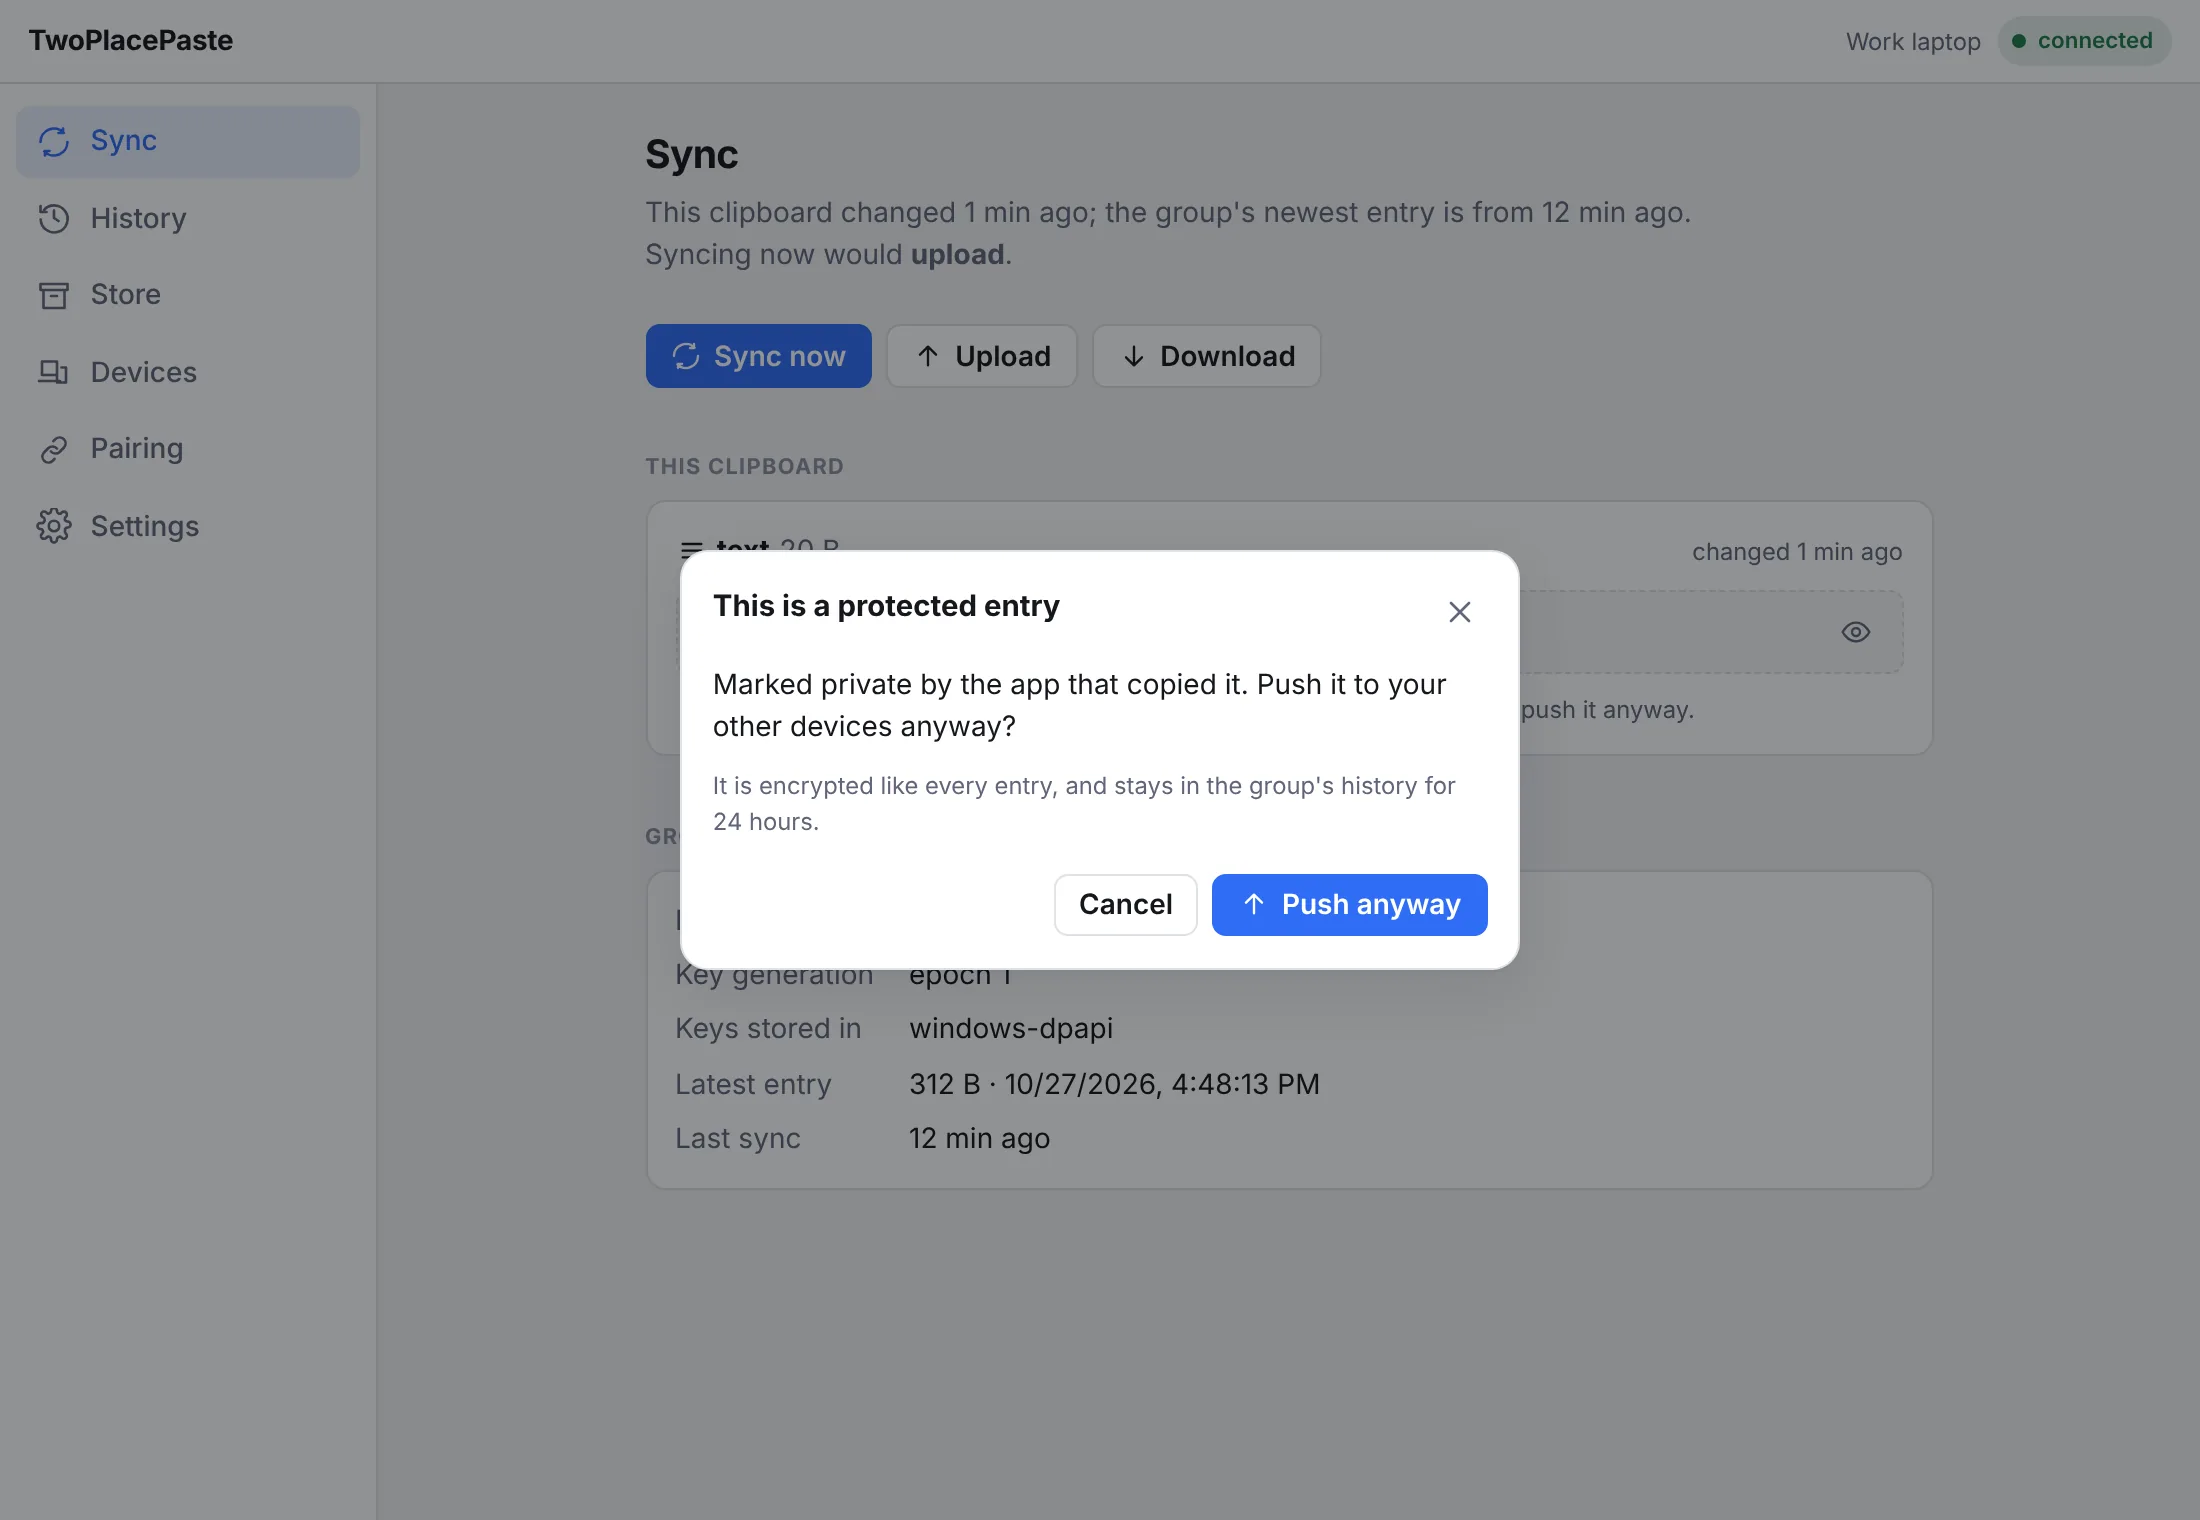
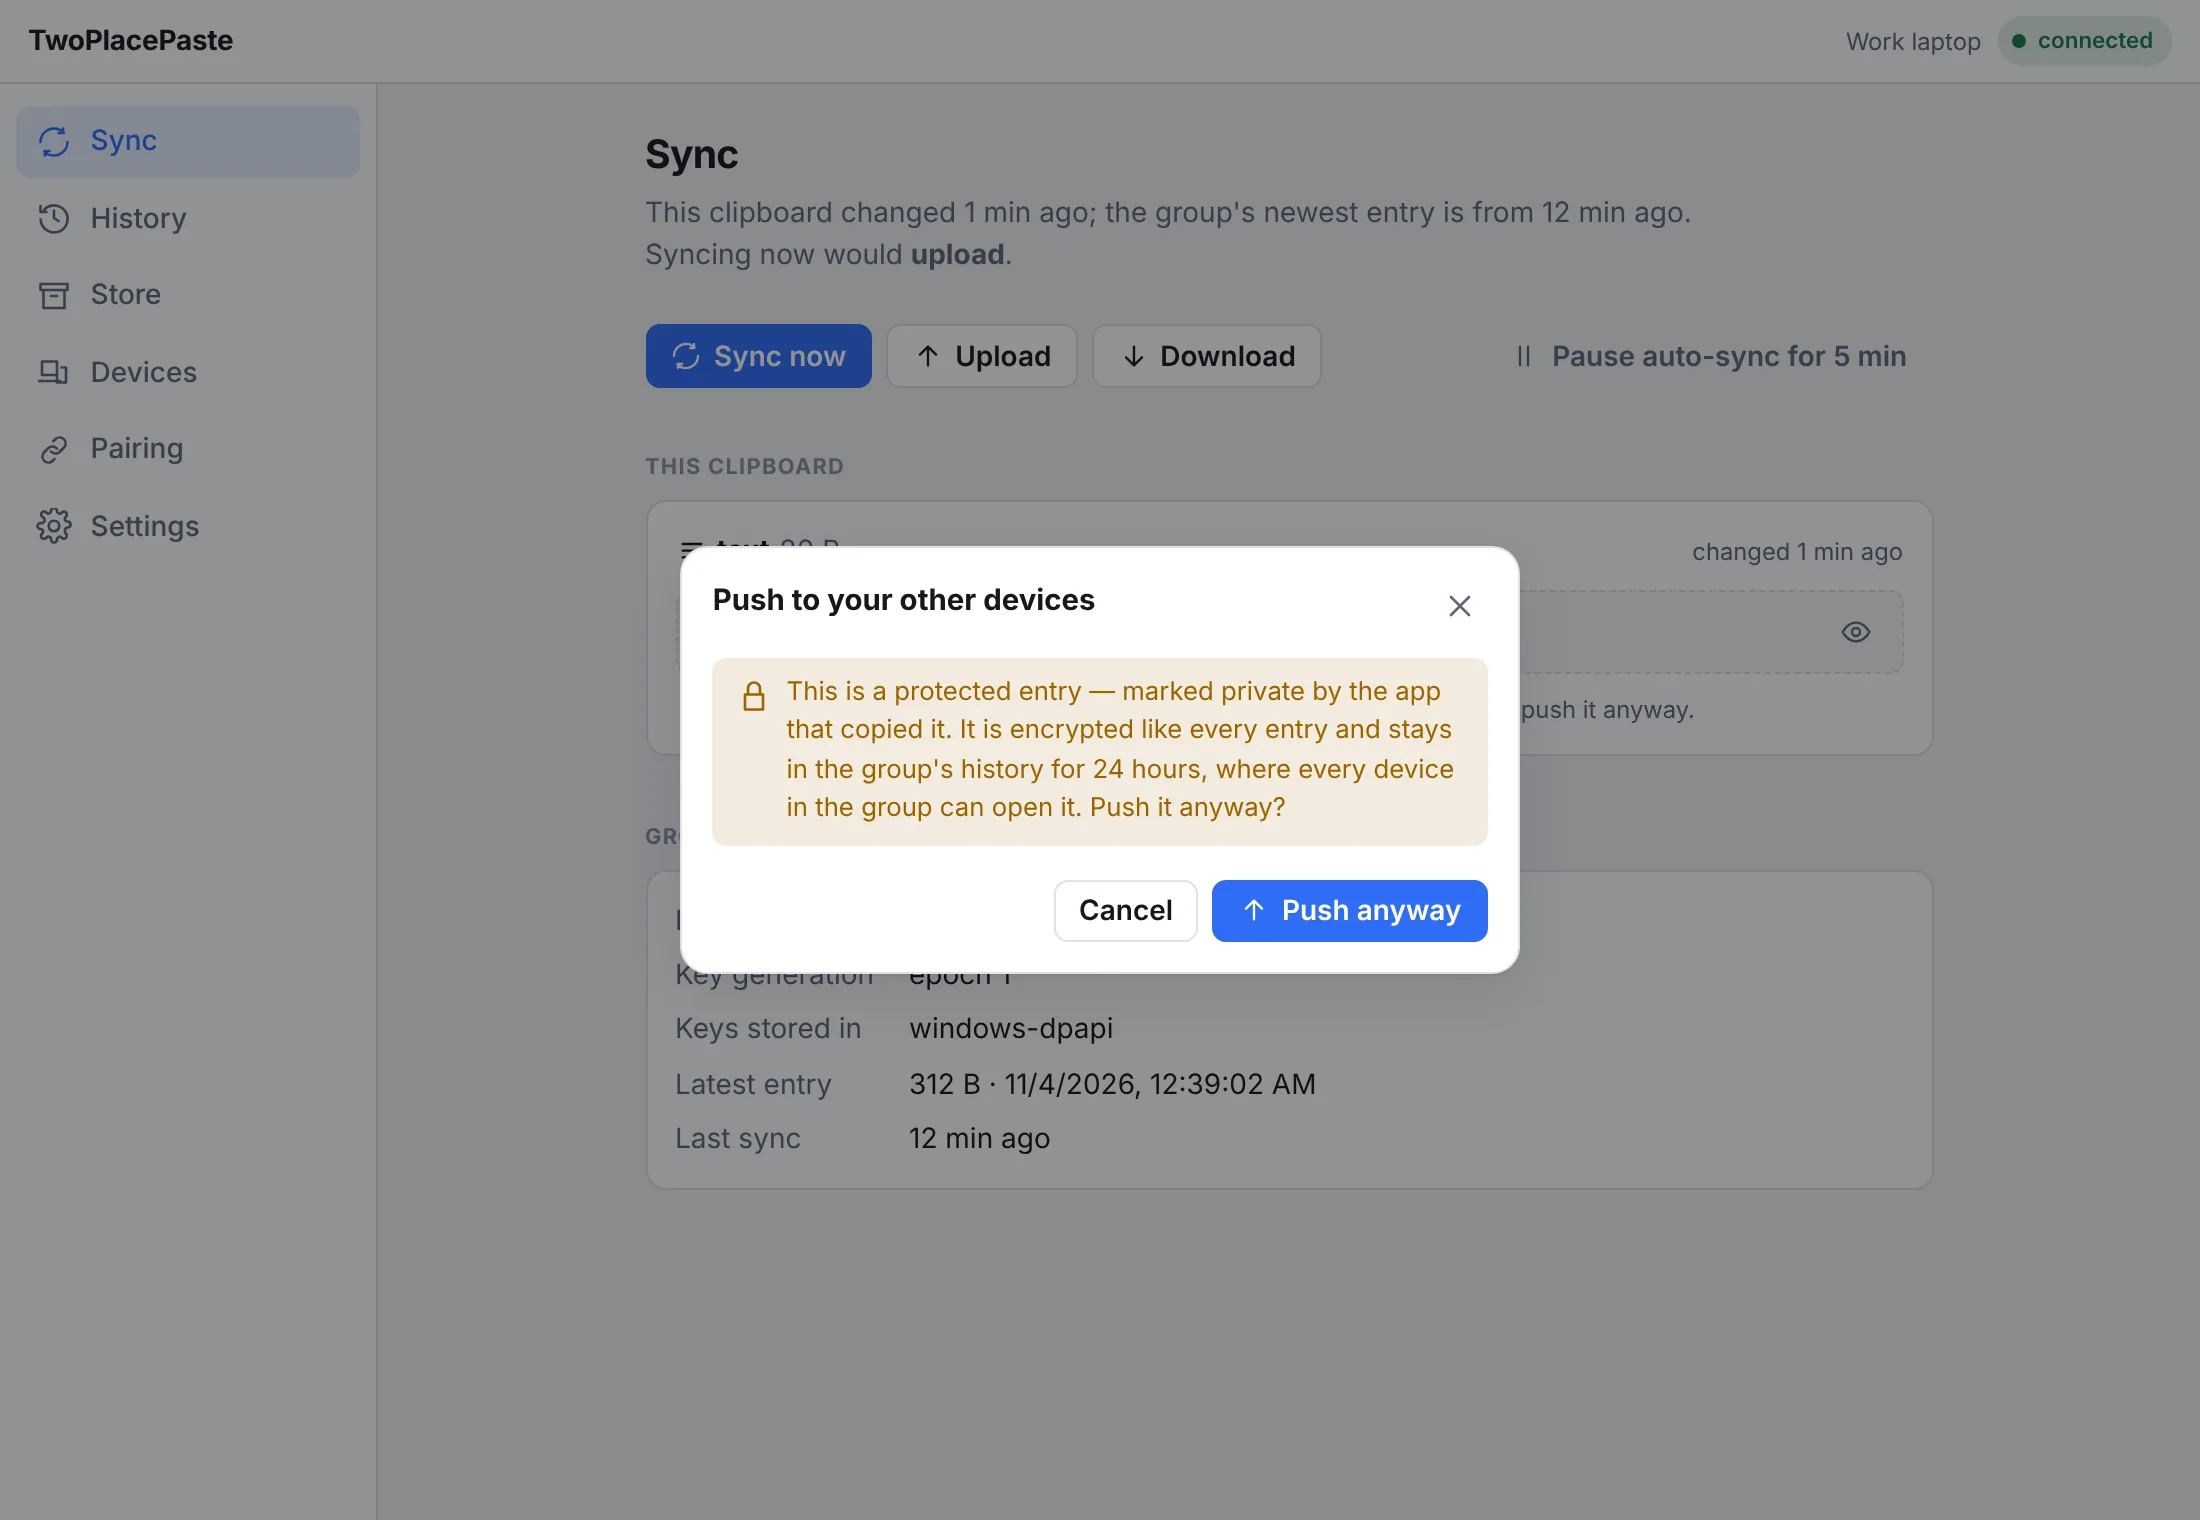
Show the push-anyway question in the store's warning style
The Sync tab's "push anyway?" dialog was plain text, while the store's
Save clipboard asks the same question in an orange warning with a
lock. Both now look and read alike: "This is a protected entry —
<reason>", what happens to it (24 hours in the group's history here,
until deleted in the store), and "anyway?". The dialog is titled
"Push to your other devices"; the docs screenshot is retaken.

The Sync tab also reads the status's pause field defensively, so a
status without one cannot blank the page.

Claude-Session: https://claude.ai/code/session_01U8D8j7vRvUxz7HoWPv7JZq

diff --git a/desktop/ui/src/panels/SyncPanel.tsx b/desktop/ui/src/panels/SyncPanel.tsx
@@ -168,7 +168,7 @@ export function SyncPanel({ status, onChanged }: { status: Status | null; onChan
             <Icon name="download" size={16} />
             {busy === "download" ? "Downloading…" : "Download"}
           </button>
-          {status.pause.paused ? (
+          {status.pause?.paused ? (
             <button className="action push-right" disabled={pausing} onClick={() => void togglePause(false)}>
               <Icon name="play" size={16} />
               Resume auto-sync
@@ -176,9 +176,9 @@ export function SyncPanel({ status, onChanged }: { status: Status | null; onChan
           ) : (
             <button
               className="action quiet push-right"
-              disabled={pausing || !status.pause.available}
+              disabled={pausing || !status.pause?.available}
               title={
-                status.pause.available
+                status.pause?.available
                   ? "Hold automatic uploads and downloads for 5 minutes"
                   : "Auto-sync is off: turn on Watch the clipboard or Take what other devices upload in Settings"
               }
@@ -317,7 +317,7 @@ export function SyncPanel({ status, onChanged }: { status: Status | null; onChan
       */}
       <Modal
         open={guarded !== null}
-        title="This is a protected entry"
+        title="Push to your other devices"
         onClose={() => setGuarded(null)}
         footer={
           <>
@@ -335,13 +335,16 @@ export function SyncPanel({ status, onChanged }: { status: Status | null; onChan
           </>
         }
       >
-        <p>
-          {guarded?.reason ? <>{guarded.reason}. </> : null}
-          Push it to your other devices anyway?
-        </p>
-        <p className="muted small">
-          It is encrypted like every entry, and stays in the group&apos;s history for 24 hours.
-        </p>
+        {/* The same warning as the store's Save clipboard asks with. */}
+        <div className="notice warn">
+          <Icon name="lock" />
+          <span>
+            This is a protected entry
+            {guarded?.reason ? <> — {lowerFirst(guarded.reason)}</> : null}. It is encrypted like every
+            entry and stays in the group&apos;s history for 24 hours, where every device in the group can
+            open it. Push it anyway?
+          </span>
+        </div>
       </Modal>
 
       {/*
